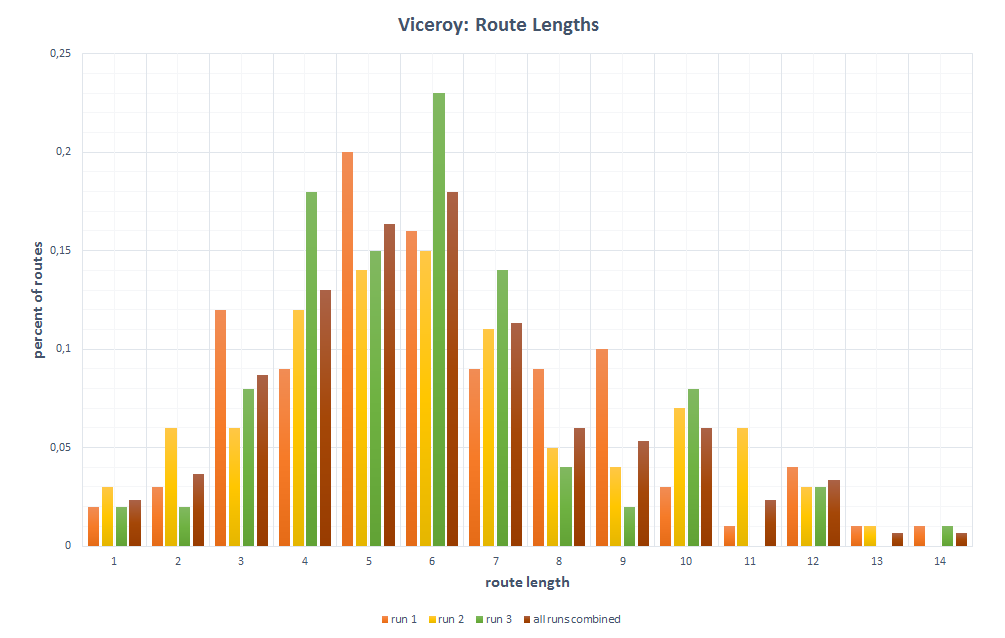
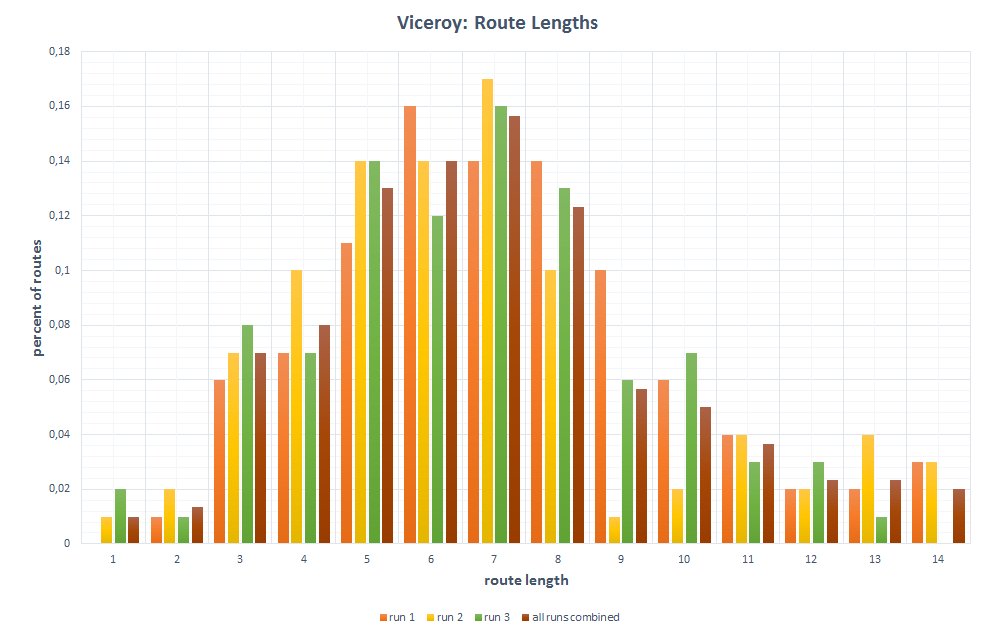
small changes. changes evaluation

diff --git a/3/viceroy/src/viceroy/Viceroy.java b/3/viceroy/src/viceroy/Viceroy.java
@@ -74,7 +74,7 @@ public class Viceroy {
 		Node dest;
 		Node currNode;
 		int paths = 0;
-		while(paths < 10000){
+		while(paths < 100){
 			start = rings[(int)(Math.random()*5)].findSucc(Math.random());
 			dest = rings[(int)(Math.random()*5)].findSucc(Math.random());
 			while(start.ring == dest.ring && start.pos == dest.pos){
@@ -88,9 +88,10 @@ public class Viceroy {
 					break;
 				}
 				while(currNode.ring != 0){
+					pathLength++;
 					currNode = rings[currNode.ring - 1].findSucc(currNode.pos);
 				}
-				pathLength++;
+				//pathLength++;
 				currNode = routeStep(currNode, dest);
 			}
 			if(currNode.pos == dest.pos && currNode.ring == dest.ring){
